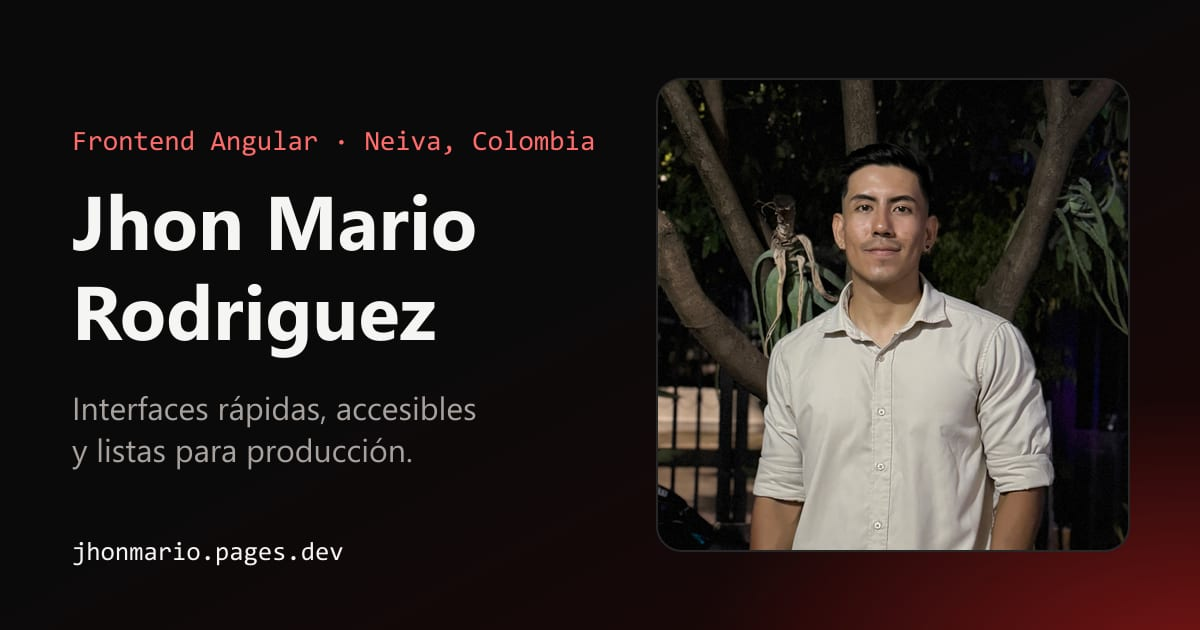
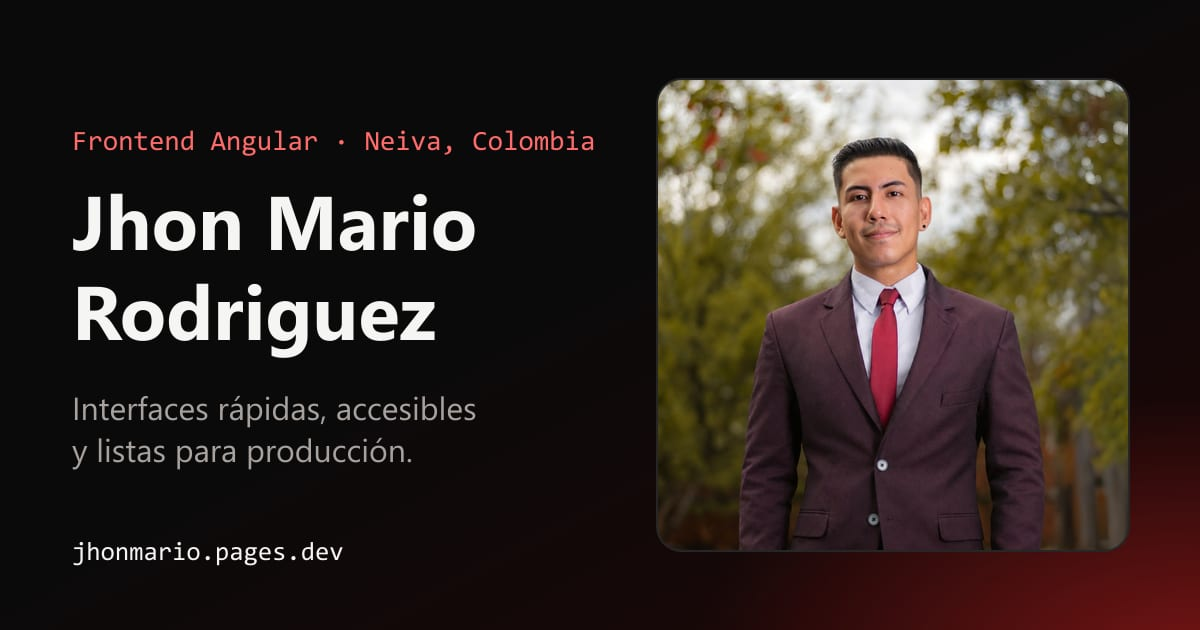
Replace hero and OG photo with the new portrait

Changed region(s): [[0.5242, 0.1206, 0.9558, 0.8746]]

diff --git a/src/app/sections/hero.ts b/src/app/sections/hero.ts
@@ -80,7 +80,7 @@ const glassConfig = {
           width="640"
           height="800"
           priority
-          alt="Jhon Mario Rodriguez sonriendo, con camisa clara, en un jardín de noche."
+          alt="Jhon Mario Rodriguez sonriendo, de traje vinotinto y corbata roja, al aire libre entre árboles."
           class="rounded-card border border-border object-cover"
         />
         <p class="absolute left-4 top-4 inline-flex items-center gap-2 rounded-full border border-border bg-bg/85 px-3 py-1.5 text-xs font-medium backdrop-blur">
